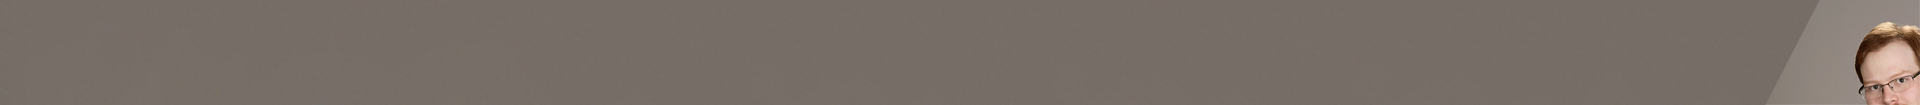
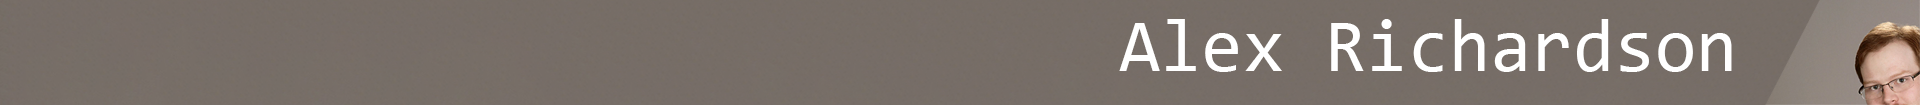
Alex Styles
Alex's styles moved into main style file.

Changed region(s): [[0.5625, 0.1714, 0.9062, 0.6857]]

diff --git a/AlexBio.html b/AlexBio.html
@@ -4,38 +4,46 @@
         <meta charset="UTF-8">
         <title>Alex Richardson - Bio</title>
         <meta name="viewport" content="width=device-width, initial-scale=1.0">
-        <link rel="stylesheet" href="AlexStyles.css"> <!--this will change-->
+        <link rel="stylesheet" href="styles.css">
         <link href="https://fonts.googleapis.com/css?family=Merienda" rel="stylesheet">
         <link href="https://fonts.googleapis.com/css?family=MRaleway" rel="stylesheet">
     </head>
-    <body>
+
+    <body class="alexPage">
+        <header>
+            <img src="images/alexbanner.png" alt="Picture of Alex" class="alexProfilePic center">
+        </header>
+
         <div class="alexMainNav">
             <ul>
                 <li><a href="LINK TO HOMEPAGE">Home</a></li>
             </ul>
         </div>
-        <header class="alexPage alexHeader">
-            <img src="images/alexbanner.png" alt="Picture of Alex" class="alexProfilePic center">
+
+        <header class="alexBox alexHeader">
             <h1 class="alexName">Alex Richardson</h1>
             <p class="alexText alexBio">Hi! I’m a student at Boise State University (BSU) studying Games, Interactive Media, and Mobile Technology (which is basically video game design and related subjects), and Computer Science. And I am also a trained Cosmetologist.
             I’ve lived in America for 18 years (15 of which were spent in Arizona), although I was born in Weston-super-Mare, England. I am a huge geek who loves Star Wars, Doctor Who, reading, and coffee.
             </p>
         </header>
-        <div class="alexPage alexPicDiv">
+
+        <div class="alexBox alexPicDiv">
             <img src="images/JIMMgleGif.gif" alt="Animated image of a forest game" class="alexGamePics alexGameGifDesktop">
-            <p class="alexText alexTextDesktop"> "Welcome to the JIMMgle"</p>
+            <p class="alexBold alexTextDesktop"> "Welcome to the JIMMgle"</p>
             <p class="alexText alexTextLeft">This gif is from "Welcome to the JIMMgle," a project I worked on with a team of other students including a fellow member of the JAAM team, Jasmine Young. The player controls a tiger as it makes its way through various challenges to get to the center of the jungle.
             </p>
         </div>
-        <div class="alexPage alexPicDiv">
+
+        <div class="alexBox alexPicDiv">
             <img src="images/RuinsCapture.JPG" alt="Image of animated man in a temple" class="alexGamePics alexGamePicDesktop">
-            <p class="alexText alexTextDesktop">"Ruins of the Spirit"</p>
+            <p class="alexBold alexTextDesktop">"Ruins of the Spirit"</p>
             <p class="alexText alexTextRight">This is a screenshot of a quick game loop I made for one of the two-week challenges for the Dev Club at BSU. You start in the ruins of a ancient building, and have to find all the coins to pay the spirit in the ruins for your freedom. Within the ruins there's three doors, one takes you into the past, one into the future, and the other just leads you farther into the ruins.
             </p>
         </div>
-        <div class="alexPage alexPicDiv">
-            <iframe class="alexVideo alexGameGifDesktop" src="https://www.youtube.com/embed/hlFePYpjqrc" frameborder="0" allow="accelerometer; encrypted-media; gyroscope; picture-in-picture" allowfullscreen></iframe>
-            <p class="alexText alexTextDesktop">"Feed"</p>
+
+        <div class="alexBox alexPicDiv">
+            <iframe class="alexVideo alexGameGifDesktop" src="https://www.youtube.com/embed/93EpI0Zg7t4" frameborder="0" allow="accelerometer; autoplay; encrypted-media; gyroscope; picture-in-picture" allowfullscreen></iframe>
+            <p class="alexBold alexTextDesktop">"Feed"</p>
             <p class="alexText alexTextLeft">This is a game trailer for a game that I made in the first semester of GIMM. I was given the core structure of the game (trigonometry, array collection and removal, and enemy spawning), and I added in my own code, artwork, and story to reinvent the game.
             </p>
         </div>

diff --git a/styles.css b/styles.css
@@ -420,3 +420,120 @@ height: 450px;
   }
 
   /* End of Mikenna's styles */
+
+  /* Alex's styles */
+  .alexMainNav
+  {
+      background: #776e68;
+      height:2em;
+      margin: 0px 0px 0px 0px;
+  }
+  .alexCenterPic
+  {
+      display:block;
+      margin-left: auto;
+      margin-right: auto;
+      width: 50%;
+  }
+  .alexPage
+  {
+      background: #776e68;
+  }
+
+  .alexBox
+  {
+      background: orange;
+      width: 95%;
+      margin: 0 auto;
+      text-align: center;
+      border: 32px solid #776e68;
+  }
+  .alexHeader
+  {
+      padding-top: 3em;
+  }
+  .alexProfilePic
+  {
+      position: absolute;
+      top: 0px;
+      right: 0px;
+
+      width: 1920px;
+      height: 105px;
+  }
+  .alexGamePics
+  {
+      width: 90%;
+      height: 80%;
+      margin-top: 1em;
+  }
+  .alexVideo
+  {
+      width: 90%;
+      height: 80%;
+      padding: 1em 0 1em 0;
+  }
+  .alexText
+  {
+      padding: 0em 1em 1em 1em;
+      font-family: 'Raleway', sans-serif;
+  }
+
+  .alexBold
+  {
+      padding: 0em 1em 0em 1em;
+      font-size: 1.5em;
+      font-family: 'Consolas', sans-serif;
+      font-weight: bold;
+  }
+
+  .alexName
+  {
+      font-family: 'Consolas', sans-serif;
+  }
+
+  @media screen and (min-width: 1024px)
+  {
+      .alexGameGifDesktop
+      {
+          padding-right: 1em;
+          margin-top: 2em;
+          width: 896px;
+          height: 504px;
+      }
+      .alexGamePicDesktop
+      {
+          padding-right: 1em;
+          margin-top: 2em;
+          width: 896px;
+          height: 504px;
+      }
+      .alexPicDiv
+      {
+          height: 824px;
+      }
+      .alexTextLeft
+      {
+          /*width: 65%;
+          padding-left: 1em;*/
+          margin-top: 2em;
+
+      }
+      .alexTextRight
+      {
+          /*width: 65%;
+          padding-right: 1em*/;
+          margin-top: 2em;
+      }
+      .alexTextDesktop
+      {
+          padding-top: 4em;
+      }
+      .alexBio
+      {
+          width:50%;
+          padding-left: 25%;
+      }
+  }
+
+  /* End of Alex's styles */
